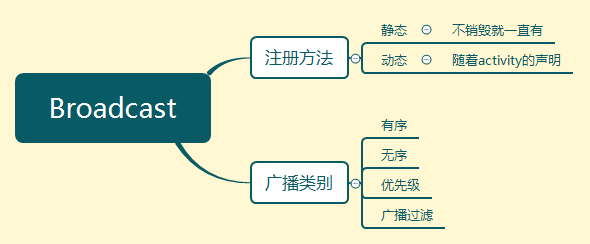
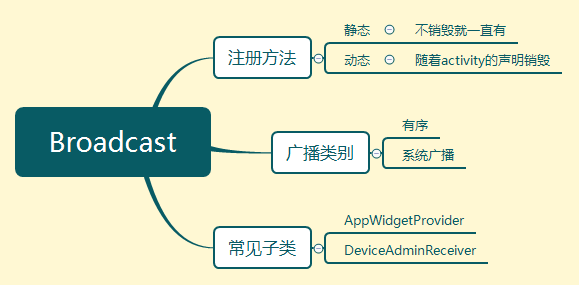
change

Changed region(s): [[0.0, 0.0574, 0.9637, 0.9467], [0.2798, 0.7459, 0.3109, 0.832]]

diff --git a/_posts/2019-09-05-service-2019.md b/_posts/2019-09-05-service-2019.md
@@ -819,7 +819,7 @@ bind模式相对于startService，多了一个与其他启动组件的<span styl
 
 上一张大图
 
-<img src="../img/post/android/picture/service_life.png" />
+<img src="https://www.crabglory.club/img/post/android/picture/service_life.png" />
 
 注意点：
 
@@ -862,7 +862,7 @@ bind模式相对于startService，多了一个与其他启动组件的<span styl
 
 看一下这个层级结构
 
-<img src="../img/post/android/picture/intent_service_inter.png" />
+<img src="https://www.crabglory.club/img/post/android/picture/intent_service_inter.png" />
 
 可以说明两个问题：IntentService是service子类，而且他还是一个抽象来，如果要使用需要继承。
 

diff --git a/_posts/2019-09-09-broadcast-2019.md b/_posts/2019-09-09-broadcast-2019.md
@@ -10,3 +10,22 @@ tags:                               #标签
     - android
 ---
 
+文章结构
+
+> 广播的工作机制
+>
+> 使用的区别：启动的模式，优先级
+>
+> 常见子类
+
+<img src="../img/post/android/mind/Broadcast.png" />
+
+
+
+Broadcast原理
+-------------
+
+其实就是一个订阅者模式
+
+
+
